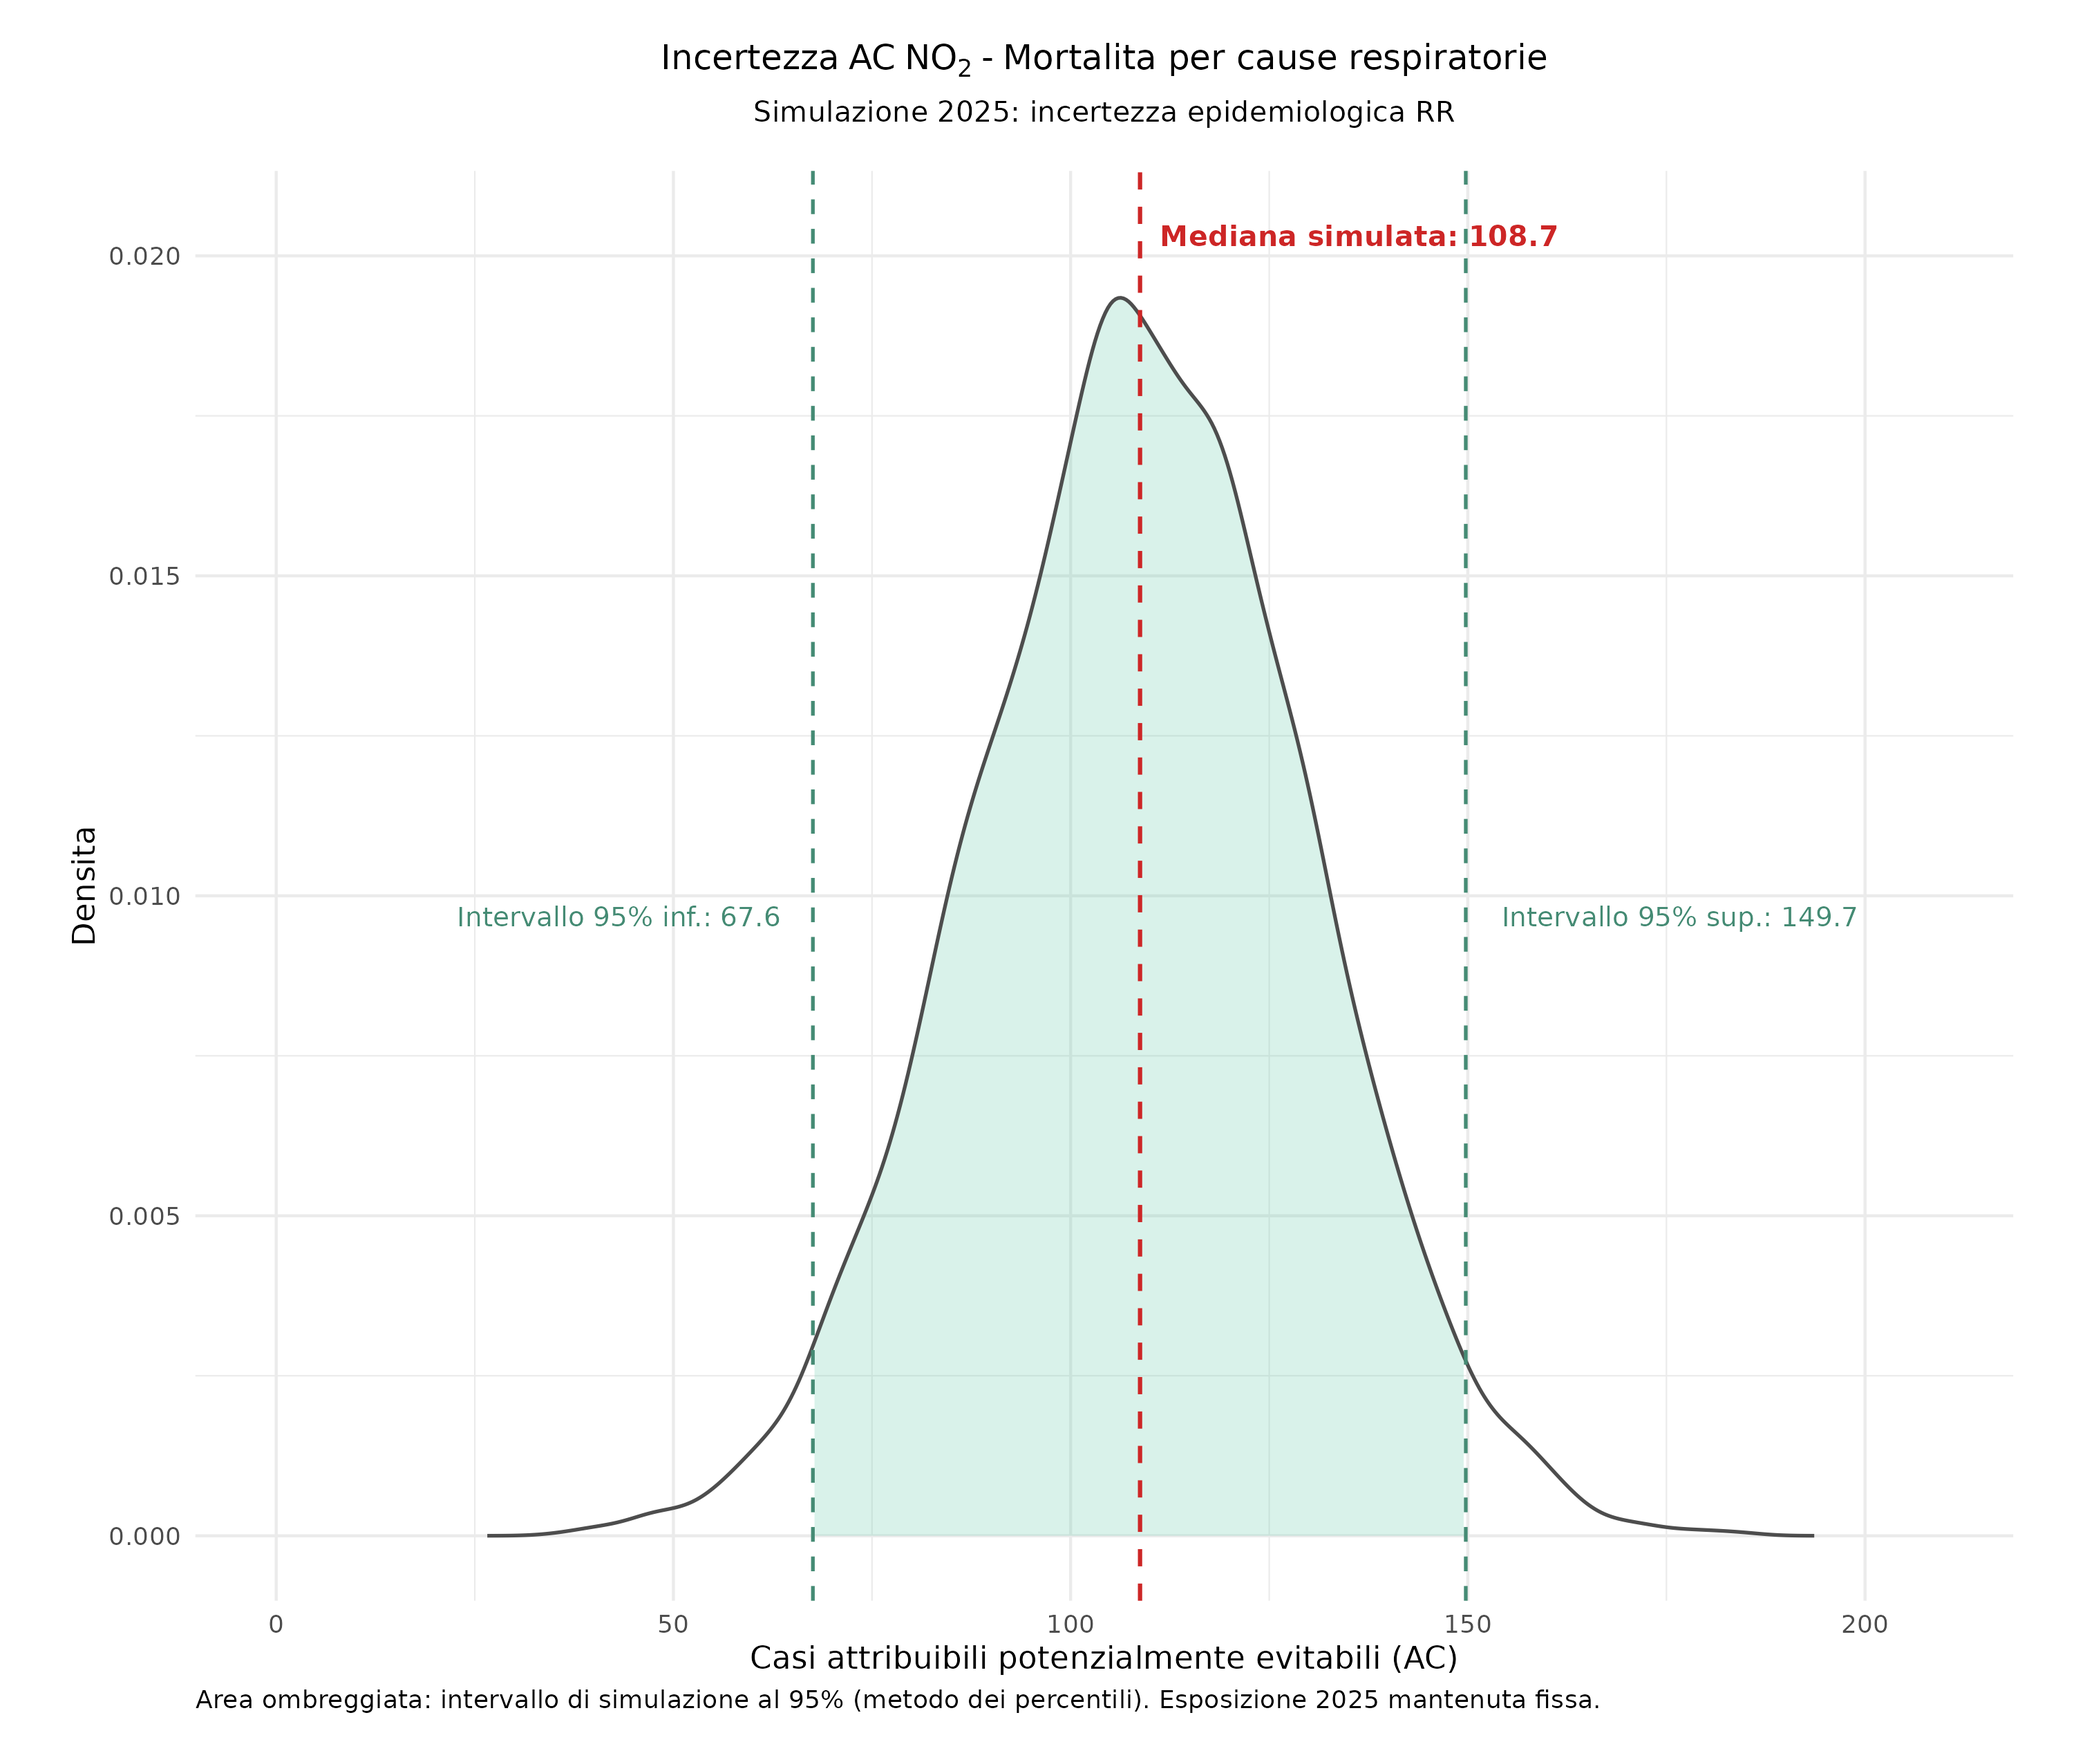
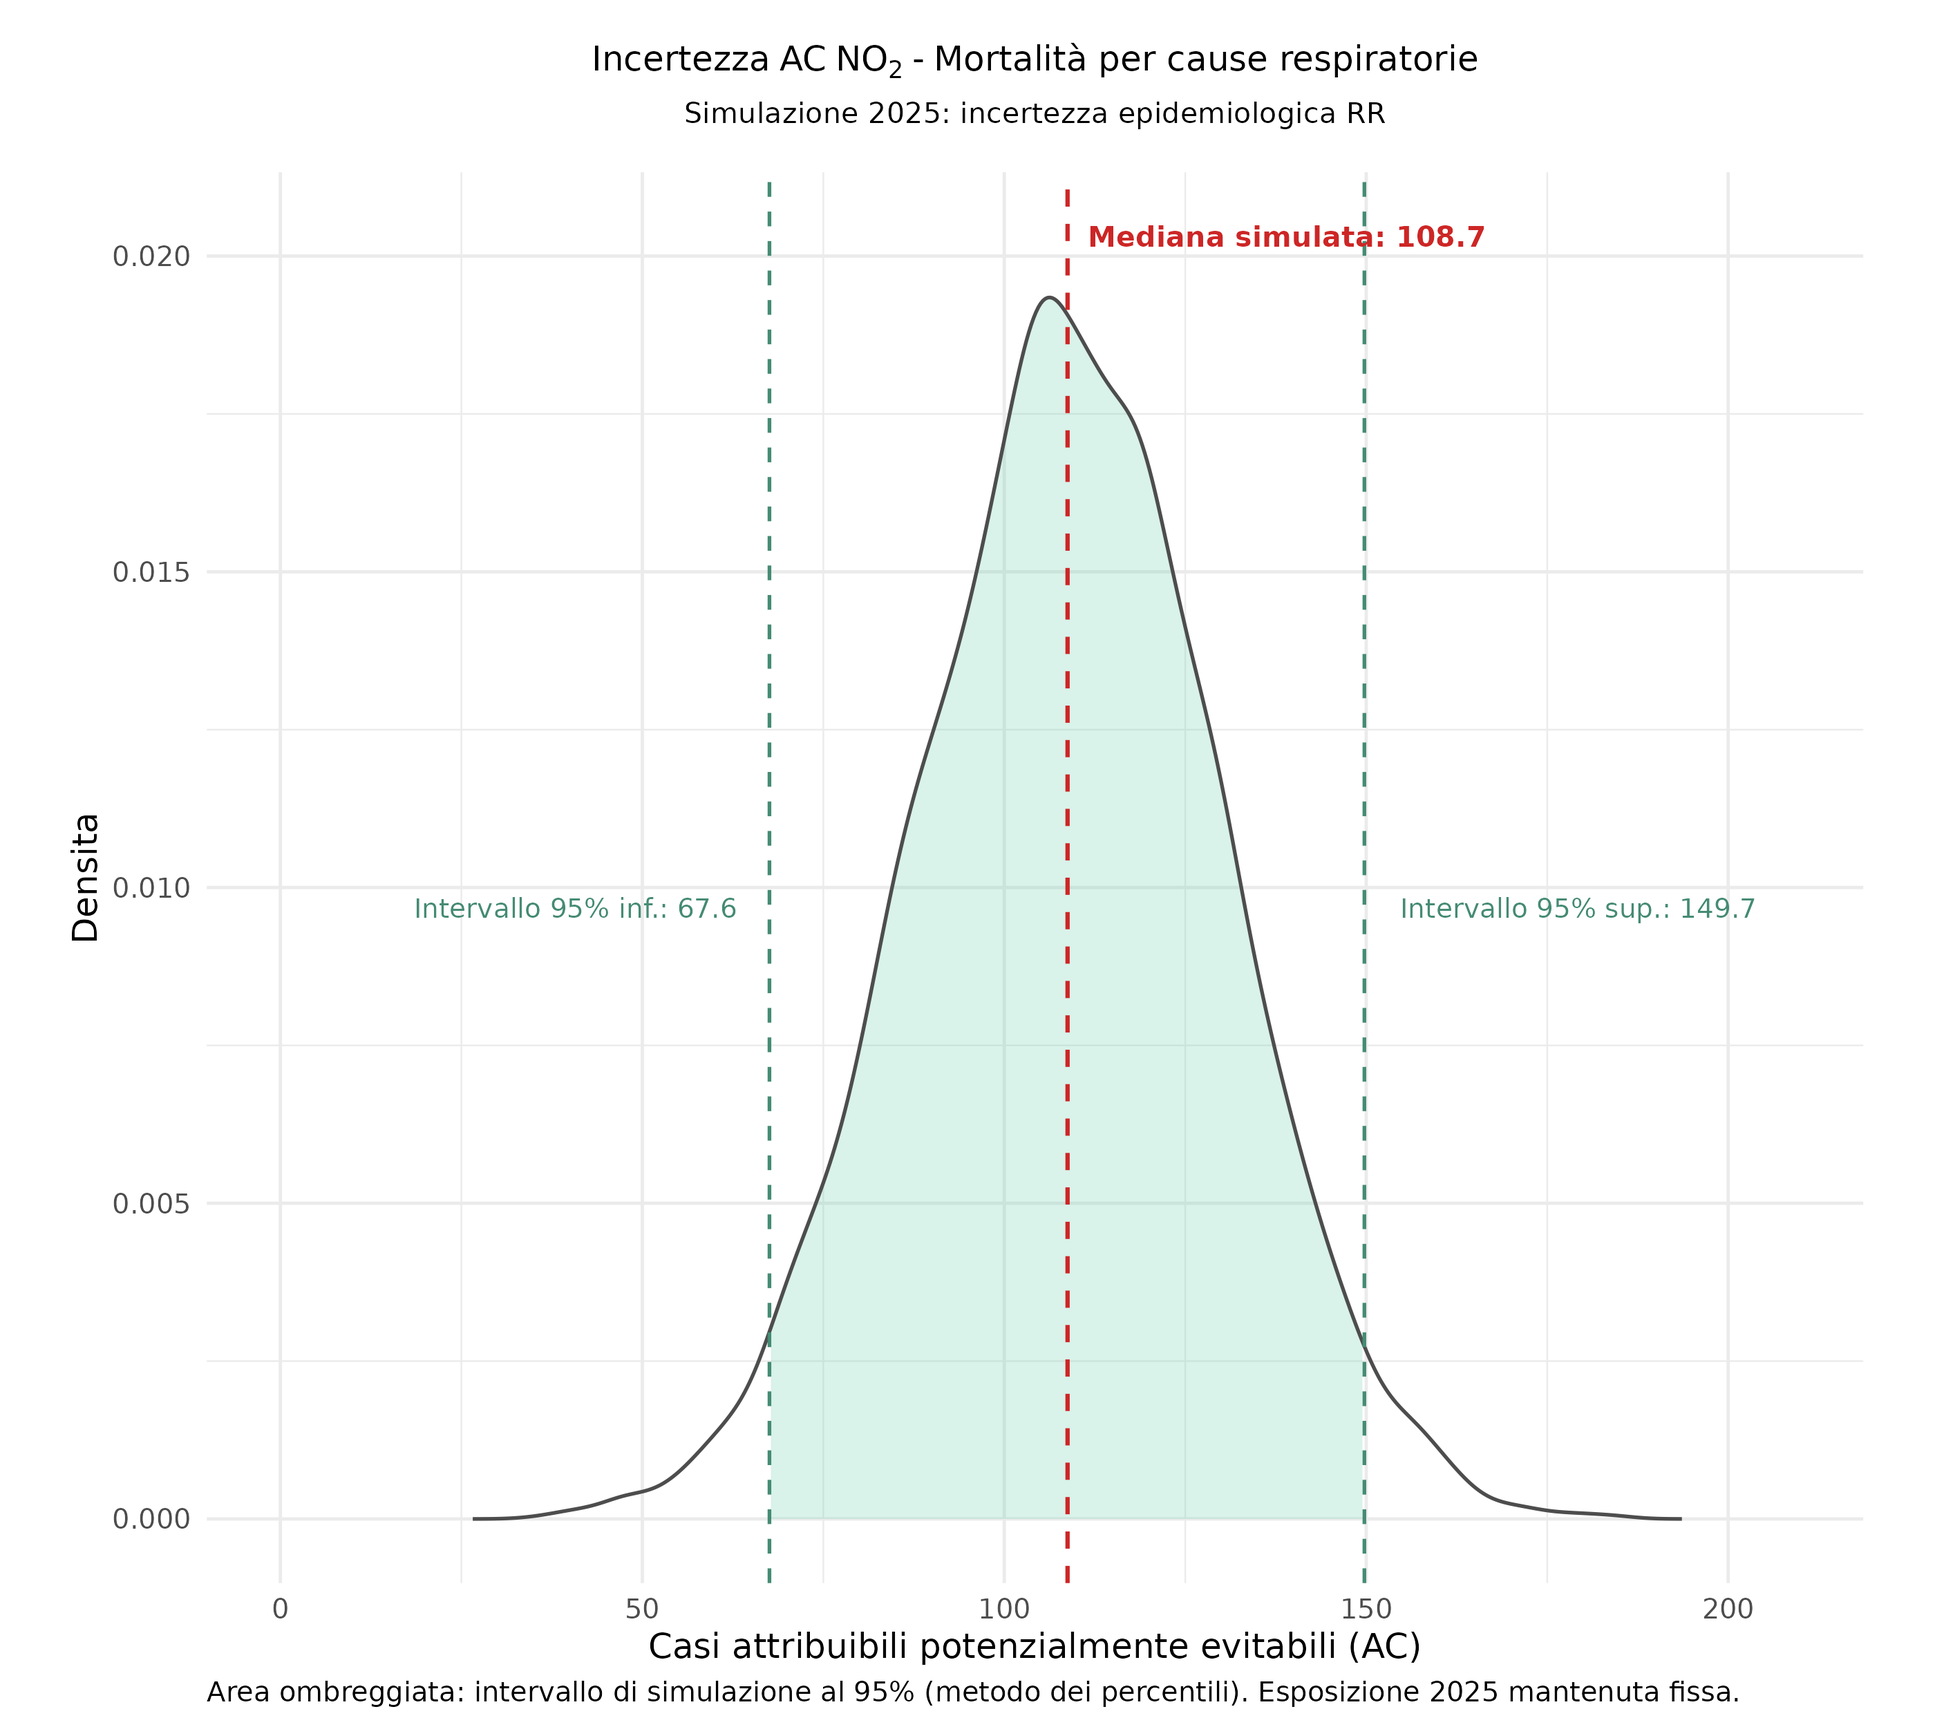
revision

diff --git a/theme_custom/custom.scss b/theme_custom/custom.scss
@@ -324,7 +324,7 @@ $presentation-heading-font: Arial, Helvetica, sans-serif;
   width: 100%;
   margin: 0 0 22px 0 !important;
   color: white !important;
-  font-size: 50px !important;  // titolo
+  font-size: 52px !important;  // titolo
   font-weight: 700;
   line-height: 1.08;
   text-align: center !important;
@@ -360,7 +360,7 @@ $presentation-heading-font: Arial, Helvetica, sans-serif;
   margin: 0 !important;
   padding: 0 !important;
   color: white !important;
-  font-size: 28px !important;   // autore
+  font-size: 30px !important;   // autore
   line-height: 1.35;
   text-align: center !important;
 }
